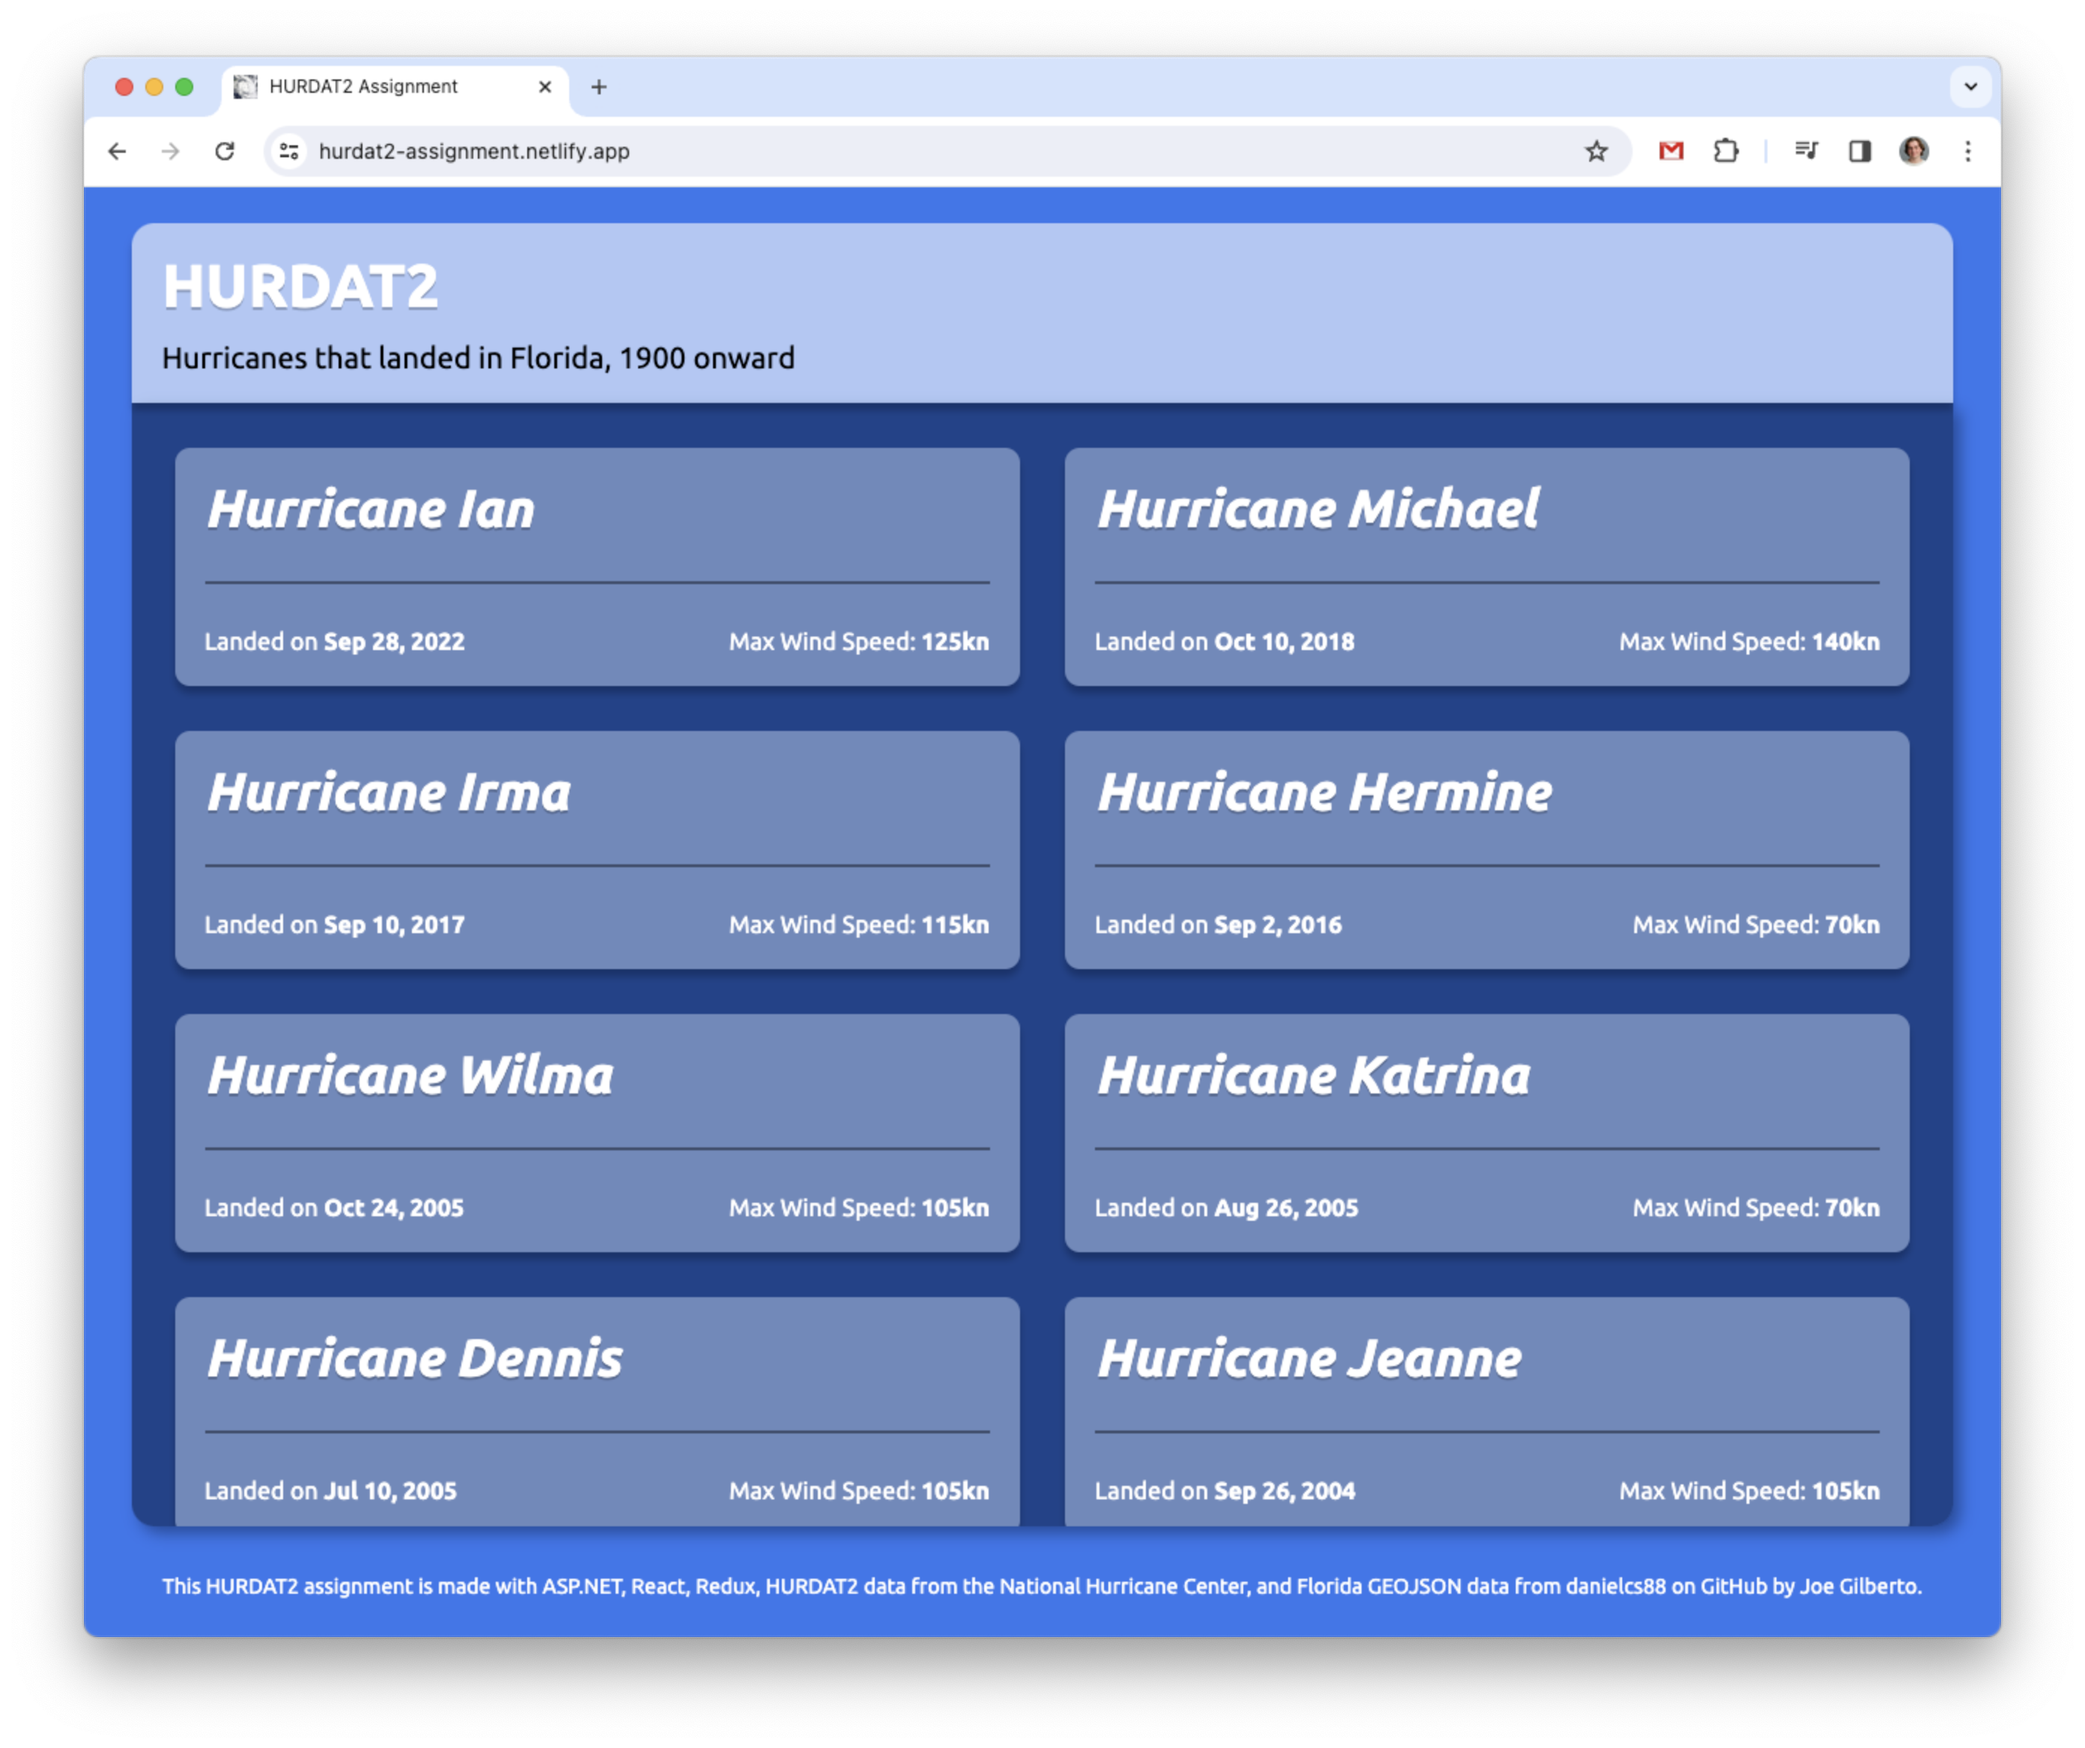
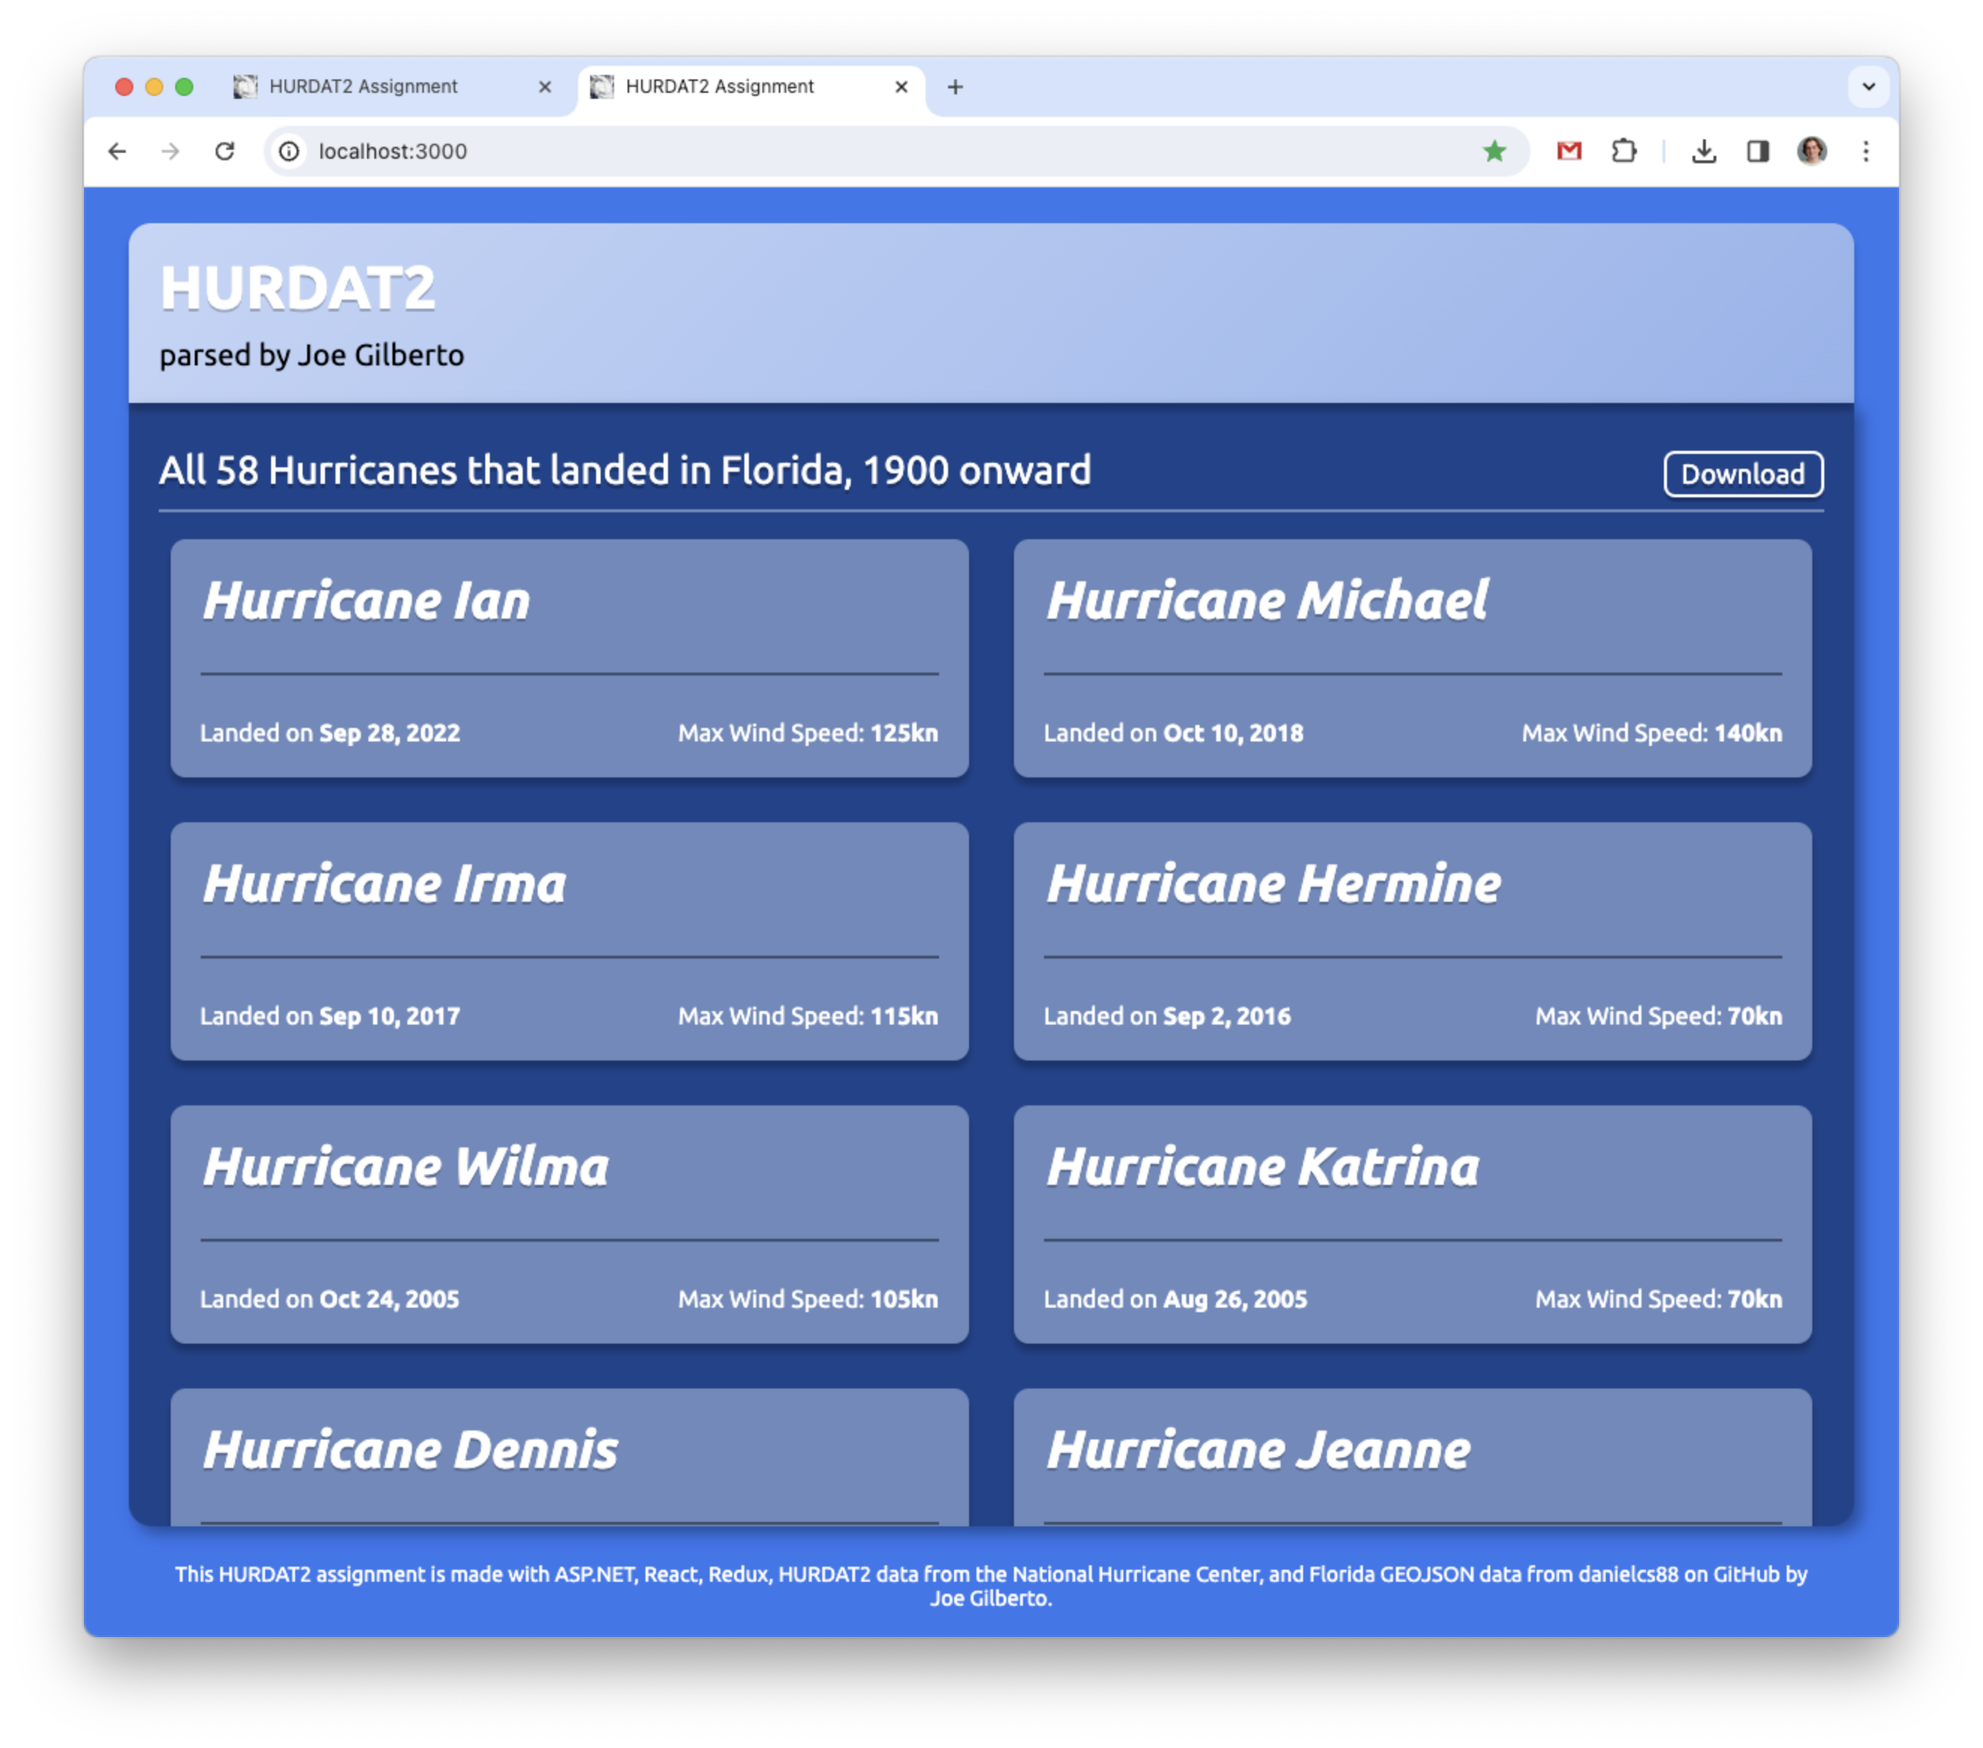
cleans up comments in client, adds error messages, and updates images in README

diff --git a/client/src/pages/AllHurricanes/AllHurricanes.jsx b/client/src/pages/AllHurricanes/AllHurricanes.jsx
@@ -1,6 +1,6 @@
 import './AllHurricanes.css';
 
-//Imports useEffect from React, useDispatch and useSelector from Redux, and loadAllHurricanes, selectAllHurricanes, and isLoading from the allHurricanesSlice
+//Imports useEffect from React, useDispatch and useSelector from Redux, as well as loadAllHurricanes, selectAllHurricanes, and isLoading from the allHurricanesSlice, and downloadLandfalls as download from utilities
 import { useEffect } from 'react';
 import { useDispatch, useSelector } from 'react-redux';
 import { loadAllHurricanes, selectAllHurricanes, isLoading } from '../../slices/allHurricanesSlice';
@@ -32,23 +32,32 @@ export default function AllHurricanes() {
   }
 
   //Otherwise maps over the hurricanes state (if it has a length) and renders a Hurricane component for each hurricane
+  //In the case there are no hurricanes to iterate through, an error is shown
   return (
     <div className="AllHurricanes">
-      <div className='list-header'>
-        <h4>All {hurricanes.length} Hurricanes that landed in Florida, 1900 onward</h4>
-        <button  onClick={(e) => download(e, 'florida-landfalls', hurricanes)}>Download</button>
+      {hurricanes.length ?
+        <>
+          <div className='list-header'>
+            <h4>All {hurricanes.length} Hurricanes that landed in Florida, 1900 onward</h4>
+            <button onClick={(e) => download(e, 'florida-landfalls', hurricanes)}>Download</button>
+          </div>
+          <hr />
+          <div className='hurricane-list'>
+            {hurricanes.length ?
+              hurricanes.map((h, idx) => {
+                return (
+                  <Hurricane key={idx} hurricane={h} />
+                )
+              })
+              :
+              null}
       </div>
-      <hr/>
-      <div className='hurricane-list'>
-        {hurricanes.length ?
-          hurricanes.map((h, idx) => {
-            return (
-              <Hurricane key={idx} hurricane={h} />
-            )
-          })
-          :
-          null}
-      </div>
+        </>
+        :
+        <>
+        <h3 className='all-hurricanes-error'>No hurricanes found, check your backend connection.</h3>
+        <hr />
+        </>}
     </div>
   );
 }

diff --git a/client/src/utilities/tools.js b/client/src/utilities/tools.js
@@ -4,8 +4,8 @@ export function month(monthNumber){
     return months[monthNumber-1];
 }
 
-//Exports status function that returns a string that represents said status based on its corresponding key in an object of statuses
-export function status(status){
+//Exports status function that returns a string that represents a statusId based on its corresponding key in an object of statuses
+export function status(statusId){
     const statuses = {
         TD: 'tropical depression',
         TS: 'tropical storm',
@@ -19,24 +19,24 @@ export function status(status){
         'N/A': 'system'
     };
 
-    return statuses[status];
+    return statuses[statusId];
 }
 
 //Exports status function that takes a string parameter and returns said string with the first letter capitalized and the rest in lower case
-export function title(title)
+export function title(unformattedTitle)
 {
-    const firstLetter = title[0];
-    const rest = title.slice(1);
+    const firstLetter = unformattedTitle[0];
+    const rest = unformattedTitle.slice(1);
     const restLower = rest.toLowerCase();
 
     return `${firstLetter}${restLower}`;
 }
 
 //Exports named function that takes a name and, if is 'unnamed', returns a string that says 'Unnamed Hurricane', otherwise returning a string that says 'Hurricane {name}' (ex: 'Hurricane Katrina')
-export function named(name){
-    if (name.toLowerCase() === 'unnamed'){
-        return `${name} Hurricane`;
+export function named(baseName){
+    if (baseName.toLowerCase() === 'unnamed'){
+        return `${baseName} Hurricane`;
     } else {
-        return `Hurricane ${name}`;
+        return `Hurricane ${baseName}`;
     };
 }

diff --git a/client/src/pages/ShowHurricane/ShowHurricane.jsx b/client/src/pages/ShowHurricane/ShowHurricane.jsx
@@ -51,6 +51,7 @@ export default function ShowHurricane() {
   }
 
   //Otherwise it displaces the hurricane name and year, maps over the hurricanes trackEntries returning TrackEntry components (with special argument being true if the index matches the .landfallsEntry), and adds a button to scroll down to the Florida Landfall entry
+  //In the case there is no hurricane to display, an error is shown
   return (
     hurricane.name ?
       <div className="ShowHurricane">
@@ -59,7 +60,7 @@ export default function ShowHurricane() {
           <p>{hurricane.year}</p>
         </div>
         <div className='track-header'>
-          <p className='track-count'>{hurricane.trackEntryCount} {hurricane.trackEntryCount===1?`Track Entry`:`Track Entries`}</p>
+          <p className='track-count'>{hurricane.trackEntryCount} {hurricane.trackEntryCount === 1 ? `Track Entry` : `Track Entries`}</p>
           <div className='track-buttons'>
             <button className='track-download' onClick={(e) => download(e, hurricane.atcfCode, hurricane)}>Download</button>
             <button className='track-scroll' onClick={scroll}>Scroll To Landfall</button>
@@ -75,6 +76,9 @@ export default function ShowHurricane() {
         </div>
       </div>
       :
-      <Loading />
+      <div className='show-hurricane-error'>
+        <h3>No hurricane found, check your backend connection.</h3>
+        <hr />
+      </div>
   );
 }

diff --git a/client/src/utilities/hurricane/hurricane-service.js b/client/src/utilities/hurricane/hurricane-service.js
@@ -13,12 +13,16 @@ export async function getAllHurricanes() {
     }
 }
 
-//Exports getHurricane function with an id as a parameter that calls upon hurricaneApi.show() in a try/catch, with said id parameter passed as an argument, and, if the response has a length, returns the first index, otherwise returning an empty object 
+//Exports getHurricane function with an id as a parameter that calls upon hurricaneApi.show() in a try/catch, with said id parameter passed as an argument, and, if the response exits and has a length, returns the first index, otherwise returning an empty object 
 export async function getHurricane(id) {
     try {
         const response = await hurricaneApi.show(id);
-        if(response.length){
-            return response[0];
+        if(response){
+            if(response.length){
+                return response[0];
+            } else{
+                return {};
+            }
         } else {
             return {};
         }

diff --git a/client/src/App/store.js b/client/src/App/store.js
@@ -1,9 +1,9 @@
-//Imports configureStore from the Redux toolkiit along with reducers
+//Imports configureStore from the Redux toolkit along with reducers
 import { configureStore } from '@reduxjs/toolkit';
 import allHurricanesReducer from '../slices/allHurricanesSlice';
 import currentHurricaneReducer from '../slices/currentHurricaneSlice';
 
-//Exports a configureStore method with allHurricanesReducer and currentHurricaneReducer passed as reducers
+//Exports the result of the configureStore method with allHurricanesReducer and currentHurricaneReducer passed as reducers
 export default configureStore({
   reducer: {
     allHurricanes: allHurricanesReducer,

diff --git a/client/src/components/Main/Main.jsx b/client/src/components/Main/Main.jsx
@@ -1,12 +1,12 @@
 import './Main.css';
 
-//Imports Routes and Route to chance main content based on the url path
+//Imports Routes and Route to swap main content based on the url path
 import { Routes, Route } from 'react-router-dom'
 
 import AllHuricanes from "../../pages/AllHurricanes/AllHurricanes";
 import ShowHurricane from "../../pages/ShowHurricane/ShowHurricane";
 
-//Exports a Main component with Routes to AllHuricanes and ShowHurricane with an id parameter
+//Exports a Main component with a Route to AllHuricanes and a Route to ShowHurricane with an id parameter
 export default function Main() {
   return (
     <main>

diff --git a/client/src/components/TrackEntry/TrackEntry.jsx b/client/src/components/TrackEntry/TrackEntry.jsx
@@ -3,7 +3,7 @@ import './TrackEntry.css';
 //Imports custom utility functions
 import * as tools from '../../utilities/tools';
 
-//Exports TrackEntry component with entry and special props that displays entry details and, if special is true, marks the TrackEntry class as special
+//Exports TrackEntry component with entry and special props that displays entry details and, if special is true, marks the TrackEntry class as special and displays the header "Florida Landfall"
 export default function TrackEntry({ entry, special }) {
   return (
     <div className={`TrackEntry ${special ? 'special' : null}`}>

diff --git a/client/src/pages/ShowHurricane/ShowHurricane.css b/client/src/pages/ShowHurricane/ShowHurricane.css
@@ -102,6 +102,28 @@
     overflow-y: scroll;
 }
 
+.show-hurricane-error{
+    width: 100%;
+    display: flex;
+    flex-direction: column;
+    gap: 20px;
+    padding: 30px 20px;
+}
+
+.show-hurricane-error h3{
+    margin: 0;
+    color: #fff;
+    font-size: 30px;
+    font-weight: 400;
+    text-shadow: 0 3px 0 #00000040;
+}
+
+.show-hurricane-error hr{
+    width: 100%;
+    margin: 0;
+    border: 1px solid #c9daf86f;
+}
+
 @media only screen and (min-width: 521px) {
 
     .ShowHurricane .track-buttons button {

diff --git a/client/src/index.js b/client/src/index.js
@@ -1,6 +1,6 @@
 import './index.css';
 
-//Imports React from react, ReactDom from react-dom/client, BrowserRouter as Router from react-router-dom, Provider from Redux, and the configureStore
+//Imports React from react, ReactDom from react-dom/client, BrowserRouter as Router from react-router-dom, Provider from Redux, and the results of configureStore in the store.js file
 import React from 'react';
 import ReactDOM from 'react-dom/client';
 import { BrowserRouter as Router } from "react-router-dom";

diff --git a/client/src/slices/allHurricanesSlice.js b/client/src/slices/allHurricanesSlice.js
@@ -29,7 +29,7 @@ export const allHurricanesSlice = createSlice({
         state.isLoadingAllHurricanes = false;
         state.hurricanes = action.payload;
       })
-      .addCase(loadAllHurricanes.rejected, (state, action) => {
+      .addCase(loadAllHurricanes.rejected, (state) => {
         state.isLoadingAllHurricanes = false;
         state.hasAllHurricanesError = true;
         state.hurricanes = [];

diff --git a/client/src/pages/AllHurricanes/AllHurricanes.css b/client/src/pages/AllHurricanes/AllHurricanes.css
@@ -57,6 +57,14 @@
     overflow-y: scroll;
 }
 
+.AllHurricanes .all-hurricanes-error{
+    margin: 0 0 20px 0;
+    color: #fff;
+    font-size: 30px;
+    font-weight: 400;
+    text-shadow: 0 3px 0 #00000040;
+}
+
 @media only screen and (min-width: 313px) {
     .AllHurricanes .hurricane-list{
         height: calc(95vh - 301px);

diff --git a/client/src/components/Hurricane/Hurricane.jsx b/client/src/components/Hurricane/Hurricane.jsx
@@ -1,6 +1,6 @@
 import './Hurricane.css';
 
-//Imports the Link component to naviate the React app and custom utility functions from tools.js
+//Imports the Link component to navigate the React app and custom utility functions from tools.js
 import { Link } from 'react-router-dom';
 import * as tools from '../../utilities/tools';
 
